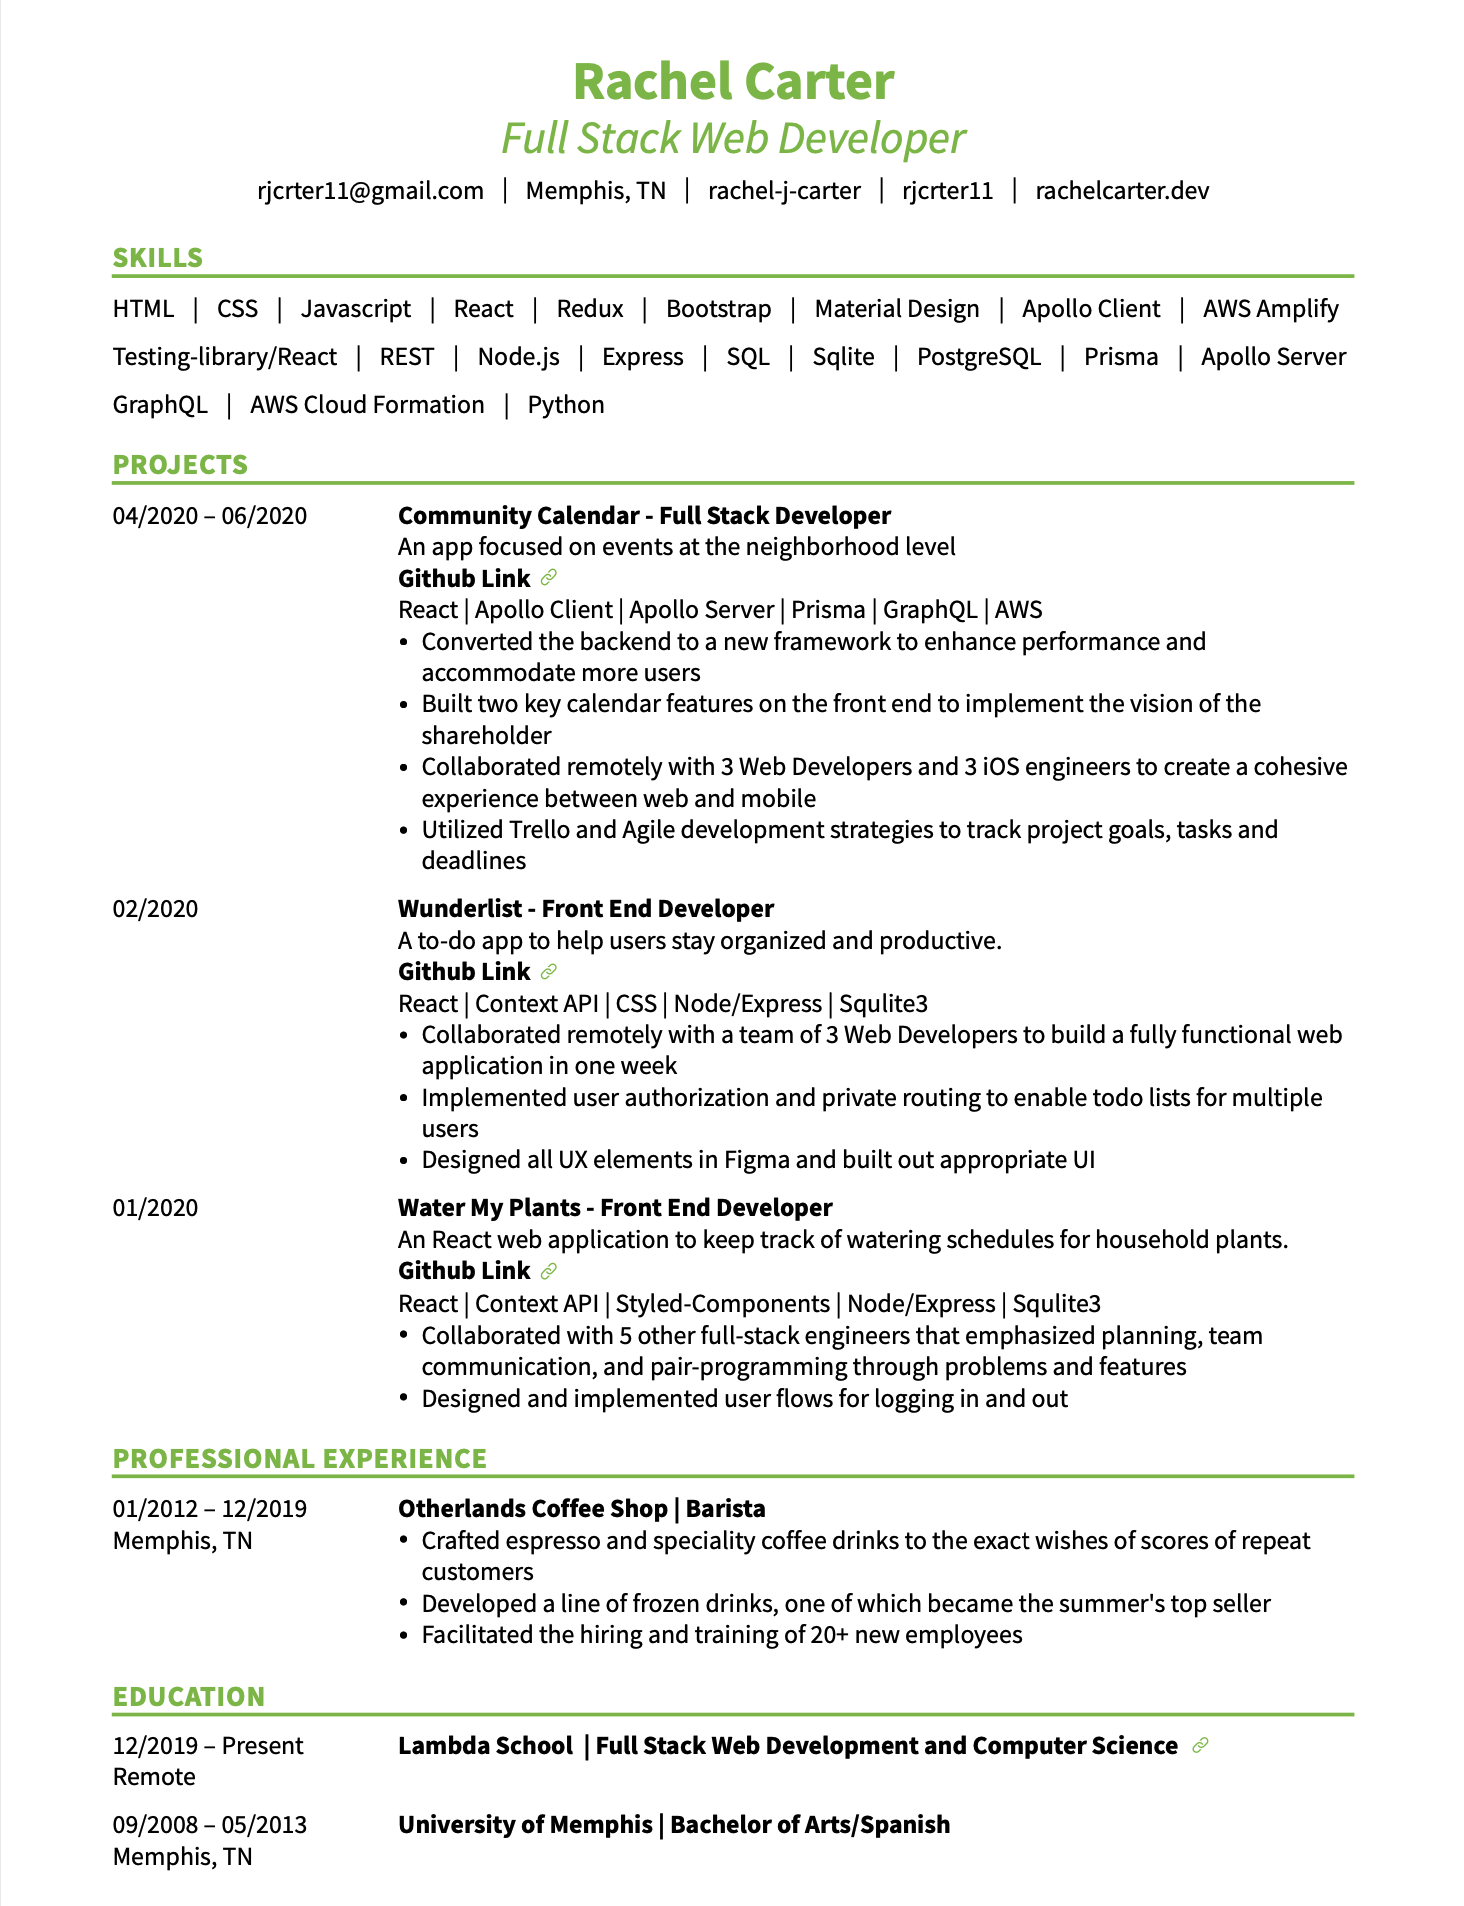
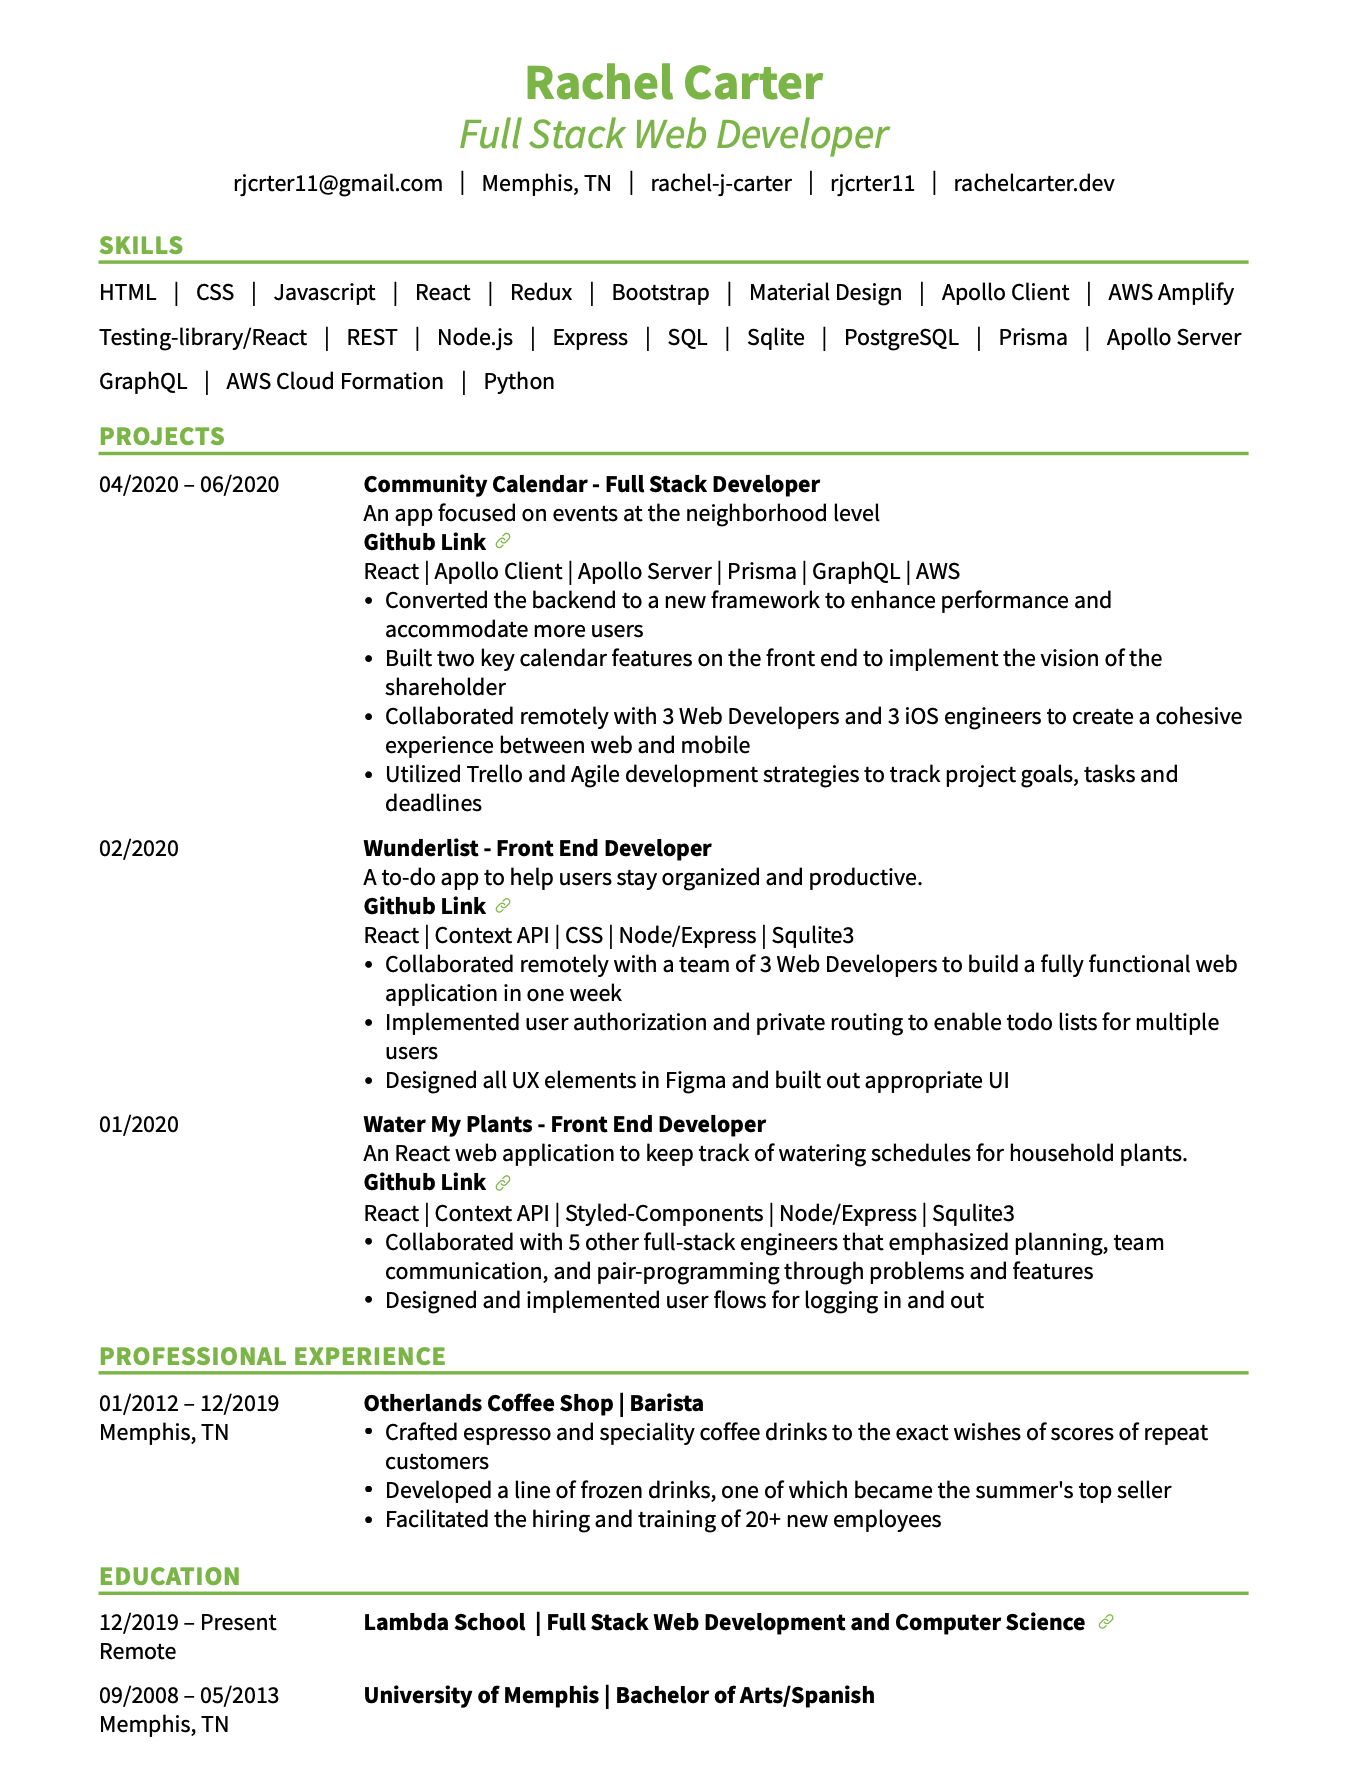
adds header and footer to resume page, adds media queries to resume

diff --git a/resume.html b/resume.html
@@ -15,18 +15,43 @@
 
 <body class="is-preload">
 
-    <section id="one">
-        <ul class="actions resume">
-            <li><a href="index.html" class="button">Back to Portfolio</a></li>
-        </ul>
+    <header id="header">
+        <div class="inner">
+            <a href="#" class="image avatar"><img src="images/avatar.jpg" alt="" /></a>
+            <h1><strong>Hello.</strong> I'm Rachel Carter, <br />
+                full stack web developer<br />
+            </h1>
+        </div>
+    </header>
 
-        <img class="resume" src="/images/fulls/Resume.PNG" alt="resume">
+    <div id="maintwo">
 
+        <section id="one about">
+            <ul class="actions resume">
+                <li><a href="index.html" class="button">Back to Portfolio</a></li>
+            </ul>
+            <div class="resume-img">
+                <img class="resume" src="/images/fulls/Resume.PNG" alt="resume">
+            </div>
+        </section>
 
-    </section>
-
-
-
+    </div>
+    <footer id="footer">
+        <div class="inner">
+            <ul class="icons">
+                <li><a href="https://www.linkedin.com/in/rachel-carter-612646199/" class="icon brands fa-linkedin"><span
+                            class="label">Linkedin</span></a></li>
+                <li><a href="https://github.com/rjcrter11" class="icon brands fa-github"><span
+                            class="label">Github</span></a></li>
+                <!-- <li><a href="#" class="icon brands fa-dribbble"><span class="label">Dribbble</span></a></li> -->
+                <li><a href="#three" class="icon solid fa-envelope"><span class="label">Email</span></a></li>
+            </ul>
+            <ul class="copyright">
+                <li>&copy; Rachel Carter</li>
+                <li>Design: <a href="http://html5up.net">HTML5 UP</a></li>
+            </ul>
+        </div>
+    </footer>
 
     <script src="assets/js/jquery.min.js"></script>
     <script src="assets/js/jquery.poptrox.min.js"></script>

diff --git a/assets/css/main.css b/assets/css/main.css
@@ -2148,7 +2148,9 @@ input, select, textarea {
 				width: 100%;
 				height: 9.5em; 
 			}
-
+		.resume-img .resume {
+			width: 100%; 
+		}
 	
 
 /* List */
@@ -2275,9 +2277,11 @@ input, select, textarea {
 				padding-left: 0;
 			}
 		ul.actions.resume {
-			margin-top: 1.5rem;
-			margin-left: 5rem;  
+			
+			margin-left: 1rem; 
+			
 		}
+	
 
 		ul.actions.submit {
 			margin-top: 1rem; 
@@ -2713,6 +2717,13 @@ input, select, textarea {
 				padding-top: 0;
 			}
 
+	#maintwo {
+		margin-left: 35%; 
+		max-width: 57em; 
+		padding: 2em 1em 4em 4em;
+		width: calc(100% - 35%);
+	}
+
 /* Poptrox */
 
 	@-moz-keyframes spin {
@@ -3045,6 +3056,13 @@ input, select, textarea {
 				width: calc(100% - 30%);
 			}
 
+			#maintwo {
+				margin-left: 28%; 
+				max-width: none; 
+				padding: 2em 3em 3em 3em; 
+				width: calc(100% - 25%)
+			}
+
 	}
 
 /* Medium */
@@ -3126,6 +3144,11 @@ input, select, textarea {
 				padding: 6em 4em;
 				width: 100%;
 			}
+			#maintwo {
+				margin: 0; 
+				padding: 6em 0; 
+				width: 100%; 
+			}
 
 	}
 
@@ -3194,6 +3217,11 @@ input, select, textarea {
 					padding: 2.25em 0 0 0;
 				}
 
+			#maintwo {
+				
+				padding: 2.25em 1em 0 1.5em; 
+			}
+
 		/* Poptrox */
 
 			.poptrox-popup {
@@ -3204,6 +3232,11 @@ input, select, textarea {
 				.poptrox-popup .nav-previous:before {
 					margin-top: -1em;
 				}
+
+
+		.resume-img .resume {
+			width: 100%; 
+		}
 
 	}
 
@@ -3220,6 +3253,10 @@ input, select, textarea {
 				#header h1 br {
 					display: none;
 				}
+
+		.resume-img .resume {
+			width: 100%; 
+		}
 
 		/* Footer */
 
